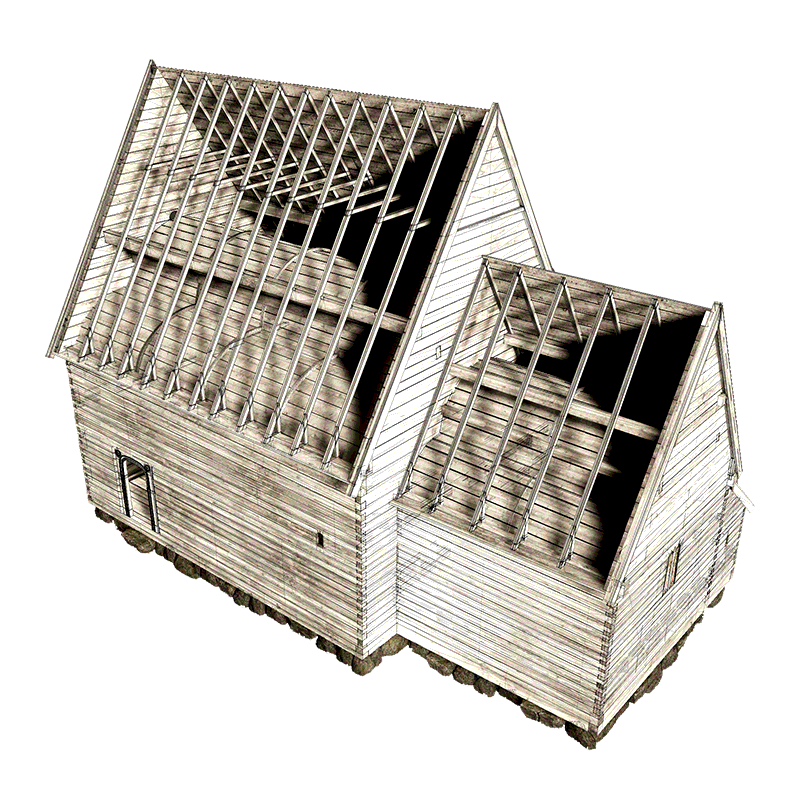
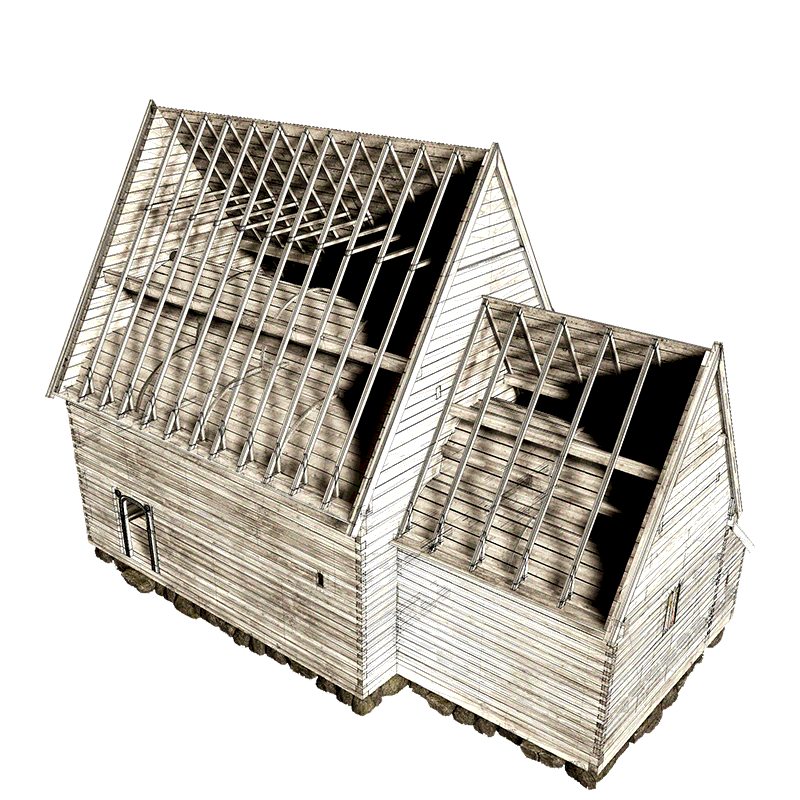
model and content

diff --git a/src/views/Home.vue b/src/views/Home.vue
@@ -10,22 +10,43 @@
 
     <div class="intro-container" style="">
       <div class="articletext" style="margin-top: 30px">
-        Södra Råda church was one of approximately twelve medieval log timber
-        churches still preserved in Scandinavia, and was recognised foremost for
-        its distinctive wall paintings, making it an important destination point
-        for tourism in the region. By the late nineteenth century the church had
-        already been deconsecrated and transformed from a place of worship into
-        a heritage museum. As such the building continued to serve the local
-        community for events like concerts, weddings, and baptisms.
-        <p>
-          Being an important node in the local community, the National Heritage
-          Board took a decision that the church should be reconstructed as a
-          pedagogical example to enhance craft practice and historical knowledge
-          of medieval churches. The full-scale reconstruction of the timber
-          building now erected on the site focuses on the potential benefits of
-          advancing research and developing skills in historical woodcraft
-          procedures.
-        </p>
+     
+   
+        Under tidig medeltid fanns i Södra Råda en liten stavkyrka med långhus och kor. De historiska omständigheterna kring kyrkan är oklara. 
+        Den dendrokronologiska analysen daterar timrets fällningsår till perioden 1302–1309. 
+        Kormålningarna är från 1323 enligt en inskription på den västra korväggen: ”I Herrens år 1323, då herr Petrus var biskop, är detta skrivet om den heliga jungfru Maria.” 
+        Textens budskap och de många målningarna ur Marias liv, som bedjerska vid Nådastolen och i Marie kröning, 
+        gör det sannolikt att kyrkan var tillägnad just Maria. 
+        
+        <p>Kyrkan var välbesökt av långväga gäster för att se de över 300 religiösa bildmotiven, 
+        men också använd av lokalsamhället för högtider och ceremoni.
+
+         Den gamla träkyrkans kulturvärden fick nationell och internationell uppmärksamhet genom den svenske folkloristen och konstnären Nils Månsson Mandelgren. 
+   En ny stenkyrka invigdes 1859, och den gamla timmerkyrkan köptes 1860 av Kungliga Vitterhetsakademien, avkonsekrerades och kom så att bli Sveriges första museikyrka. </p>
+
+   <p>I samband med Kungliga Vitterhetsakademiens skiljande från Riksantikvarieämbetet 1975 
+överläts större delen av fastighetsbeståndet inklusive Södra Råda gamla kyrka till staten, att förvaltas genom Riksantikvarieämbetet.  </p>
+
+     <p>2001 brann timmerkyrkan ned till grunden i ett pyromandåd. 
+       Kyrkans dåvarande ägare Riksantikvarieämbetet beslutade att den skulle rekonstrueras 
+       ”som ett pedagogiskt exempel för att ge nytt hantverkskunnande och kunskap om vår medeltida historia.” 
+       Syftet var att undersöka hur det kunde ha gått till att bygga en timmerkyrka på 1300-talet. 
+       
+       Bevarade träbyggnader från medeltiden och museisamlingar med byggnadsmaterial och historiska verktyg studerades i detalj. 
+       Andra källmaterial som har bidragit till tolkningen är medeltida illustrationer och texter om liturgi och byggenskap. 
+       Skogen och byggarbetsplatsen har fungerat som ett laboratorium för praktiska försök. 
+       Antaganden om arbetsmetoder, verktyg och konstruktioner har prövats i full skala. 
+
+       Allt material har fällts och bearbetats till timmer, sparrar och brädor i skogen med historiska metoder. 
+       Alla verktyg har rekonstruerats utifrån medeltida förlagor. 
+       </p>
+
+        <p>Läs mer om kyrkans historia i antologin ”Arkeologi i Södra Råda” 
+eller om byggprocessen och hantverket i artikeln ”Att bygga en kyrka i trä”.</p>
+
+  
+
+   
       </div>
     </div>
 
@@ -48,7 +69,7 @@
 
     <div class="timeline-container" style="margin-top: 50px">
       <div class="timeline-leftside">
-        <div class="timeline-date">1326</div>
+        <div class="timeline-date">1323</div>
       </div>
       <div class="timeline-main">
         <div class="timeline-circle" id="timeline-circle-1326" style="">
@@ -63,10 +84,14 @@
       </div>
       <div class="timeline-rightside">
         <div class="timeline-info" style="margin-top: 40px">
-          Lorem ipsum dolor sit amet, consectetur adipiscing elit. Pellentesque
-          vel consectetur odio, vel semper felis. Quisque pharetra laoreet magna
-          sed luctus. Etiam ultricies vehicula leo, at molestie eros
-          consectetur.
+          Kyrkorummet var ursprungligen sparsmakat inrett, enligt vår tids uppfattning. 
+          Det fanns en ingång från söder, en portal med dekor skuren direkt i timmerväggen. 
+          Ett par högt sittande fönster mot söder gav ljus i långhuset. 
+          Både långhus och kor hade rumstäckande treklövervalv men endast koret var bemålat. 
+          En liten öppning förband rummen, och församlingen som höll till i långhuset kunde endast ana allt vad som företogs i koret. 
+          Koret belystes av ett fönster över altaret möt öster, 
+          sannolikt med färgat glas med religiöst motiv, som förstärkte rummets mystik. 
+
         </div>
         <div class="timeline-infographics-container">
           <div class="timeline-infographics">
@@ -112,9 +137,38 @@
       </div>
       <div class="timeline-rightside">
         <div class="timeline-info-indented" style="">
-          Lorem ipsum dolor sit amet, consectetur adipiscing elit. Pellentesque
-          vel consectetur odio, vel semper felis. Quisque pharetra laoreet magna
-          sed luctus.
+         Under senmedeltiden bemålades även långhusets väggar och valv med religiösa motiv. 
+         Målningarna är signerade Mäster Amund med dateringen 1494. 
+         Hur konstruktionen och rummet i övrigt hade förändrats går inte att belägga med historiska källor. 
+         Ytterväggarna hade sannolikt klätts med långa stavspån, och möjligtvis hade ett vapenhus till sydportalen byggts till. 
+         Det fanns troligtvis en klockstapel i trä på kyrkogården som avgränsades av en timrad bogårdsmur. 
+        </div>
+      </div>
+      <div></div>
+    </div>
+
+      <div class="timeline-container">
+      <div class="timeline"></div>
+    </div>
+
+    <div class="timeline-container" style="margin-top: 0px">
+      <div class="timeline-leftside" style="">
+        <div class="timeline-date-indented" style="">1600</div>
+      </div>
+      <div class="timeline-main" style="height: 150px">
+        <div class="timeline-picture">
+          <img
+            src="@/assets/graphics/painting2.jpg"
+            class="timeline-infographics-image"
+          />
+        </div>
+      </div>
+      <div class="timeline-rightside">
+        <div class="timeline-info-indented" style="">
+ Det är osäkert när öppningen mellan långhus och kor förstoras, men de abrupt avkapade motiven i Mäster Amunds målningar antyder att det skedde efter 1494.
+         En predikstol sätts upp i långhusets nordöstra hörn 1689 med en smal passage från sakristian. 
+         Sydportalen sätts igen och huvudingången genom vapenhuset placeras i stället mot väster. 
+         En vinkällare grävs under sakristian. Klockstapeln ersätts med en ny eller genomgår en större renovering på 1660-talet.
         </div>
       </div>
       <div></div>
@@ -141,10 +195,11 @@
       </div>
       <div class="timeline-rightside">
         <div class="timeline-info" style="">
-          Lorem ipsum dolor sit amet, consectetur adipiscing elit. Pellentesque
-          vel consectetur odio, vel semper felis. Quisque pharetra laoreet magna
-          sed luctus. Etiam ultricies vehicula leo, at molestie eros
-          consectetur.
+          
+
+        På 1700-talet skedde flera förändringar. En ny altaruppsats tar plats 1707. 
+         En läktare uppförs 1723 i långhusets bakre del för att skapa mer plats åt en växande församling. 
+         Ytterligare fönster tas upp, och 1728 även en direktingång till koret som förses med ett eget litet vapenhus.    
         </div>
         <div class="timeline-infographics-container">
           <div class="timeline-infographics">
@@ -191,10 +246,9 @@
       </div>
       <div class="timeline-rightside">
         <div class="timeline-info-indented" style="">
-          Phasellus et sapien auctor mi bibendum sagittis. Fusce magna dolor,
-          fringilla nec orci at, suscipit luctus eros. Mauris fringilla, diam
-          sit amet faucibus vehicula, orci est efficitur justo, tristique tempor
-          ipsum ante congue orci.
+   <p>
+   </p>
+   Vid en renovering 1893 lades kyrkan på ny stenfot och vinkällaren i sakristian fylldes igen. Tak och fönster reparerades. De största ingreppen gjordes med motiv att återskapa ett medeltida utseende genom att korportalen sattes igen och det lilla vapenhuset revs liksom den bakre läktare. 
         </div>
       </div>
       <div></div>
@@ -206,7 +260,7 @@
 
     <div class="timeline-container" style="margin-top: 0px">
       <div class="timeline-leftside" style="">
-        <div class="timeline-date-indented" style="">1909</div>
+        <div class="timeline-date-indented" style="">1913</div>
       </div>
       <div class="timeline-main" style="height: 150px">
         <div class="timeline-picture">
@@ -219,8 +273,10 @@
       </div>
       <div class="timeline-rightside">
         <div class="timeline-info-indented" style="">
-          In tortor erat, facilisis sit amet metus non, lobortis tempor risus.
-          Cras pretium venenatis nisi, at eleifend lacus iaculis eget.
+          Omkring 1908 önskade Nordiska museet flytta kyrkan till Skansen i Stockholm. Folkopinionen i Södra Råda gjorde motstånd och tog hjälp av självaste kungen. 
+          Kyrkan skulle inte flyttas, utan bevaras på plats. Ägaren gick opinionen tillmötes och 1913 genomförde i stället en omfattande restaurering. Från 1922 tillåts församlingen att använda kyrkan för religiösa ändamål, 
+först för en midsommargudstjänst och senare även för dop och bröllop. 
+
         </div>
       </div>
       <div></div>
@@ -232,7 +288,7 @@
 
     <div class="timeline-container" style="">
       <div class="timeline-leftside" style="">
-        <div class="timeline-date-indented" style="">1995</div>
+        <div class="timeline-date-indented" style="">1981</div>
       </div>
       <div class="timeline-main" style="height: 150px">
         <div class="timeline-picture">
@@ -245,8 +301,8 @@
       </div>
       <div class="timeline-rightside">
         <div class="timeline-info-indented" style="">
-          Quisque pharetra laoreet magna sed luctus. Etiam ultricies vehicula
-          leo, at molestie eros consectetur.
+         Kormålningarna konserverades 1981-83 av konservator Hans-Peter Hedlund för Riksantikvarieämbetet.  
+         Målningarnas motiv och pigment dokumenteras ingående. 
         </div>
         <div
           class="timeline-infographics-container-indented"
@@ -284,10 +340,9 @@
       </div>
       <div class="timeline-rightside">
         <div class="timeline-info" style="">
-          Lorem ipsum dolor sit amet, consectetur adipiscing elit. Pellentesque
-          vel consectetur odio, vel semper felis. Quisque pharetra laoreet magna
-          sed luctus. Etiam ultricies vehicula leo, at molestie eros
-          consectetur.
+       Södra Råda gamla kyrka brann ner till grunden den 11 november 2001 i ett pyromandåd. 
+       Kyrkans dåvarande ägare Riksantikvarieämbetet beslutade att den skulle rekonstrueras ”som ett pedagogiskt exempel för att ge nytt hantverkskunnande och kunskap om vår medeltida historia.” 
+       En gärningsman dömdes senare till mordbrand, ”enär kyrkan var en ovärderlig kulturbyggnad och del av det svenska kulturarvet”. 
         </div>
       </div>
     </div>
@@ -299,7 +354,7 @@
     <div class="timeline-container" id="reconstruction" style="margin-top: 0px">
       <div class="timeline-leftside" style="">
         <div class="timeline-date-indented" style="margin-right: -100px">
-          2002-2021
+          2006-2021
         </div>
       </div>
       <div class="timeline-main" style="height: 200px">
@@ -313,8 +368,9 @@
       </div>
       <div class="timeline-rightside">
         <div class="timeline-info-indented" style="margin-top: -20px">
-          Quisque pharetra laoreet magna sed luctus. Etiam ultricies vehicula
-          leo, at molestie eros consectetur.
+       En rekonstruktion väcker många frågor och kräver detaljerade svar om skogsarbete, materialkvalitet, 
+       bearbetningsmetoder, verktyg, och om kyrkobyggnadens gestaltning, byggteknik och konstruktion. 
+       Efter branden gjordes utgrävningar och förundersökningar som pågick i fem år, innan byggnadsarbetet startade 2006.  
         </div>
         <div
           class="timeline-infographics-container-indented"

diff --git a/src/components/ThreeDViewer.vue b/src/components/ThreeDViewer.vue
@@ -7,7 +7,7 @@
     alt="3d-modell av Södra Råda"
     camera-controls
     disable-zoom
-    camera-orbit="-45deg 80deg 160.0m"
+    camera-orbit="40deg 65deg 27m"
     exposure="1.0"
     skyboxangle="120"
     shadows="false"
@@ -36,8 +36,8 @@ const baseUrl = import.meta.env.BASE_URL;
 .model-viewer {
   height: 100%;
   width: 100%;
-  --progress-bar-color: rgba(0, 0, 0, 0);
-  --progress-bar-height: 30px;
+  --progress-bar-color: rgba(0, 0, 0, 1);
+  --progress-bar-height: 10px;
   --progress-mask: fff;
   --poster-color: transparent;
   --progress-mask: transparent;
@@ -72,12 +72,15 @@ const baseUrl = import.meta.env.BASE_URL;
 }
 
 #button-load-label {
+   font-family: 'Teko', sans-serif;
   color: black;
   padding: 10px;
-  font-size: 26px;
+  font-size: 30px;
   text-align: center;
   font-weight: 300;
   margin-top: 12%;
+   line-height: 1.0;
+   padding: 20px 10px 50px 10px;
 }
 
 @keyframes pulse {

diff --git a/src/assets/archive.css b/src/assets/archive.css
@@ -76,7 +76,6 @@
     }
 
 
-
            .filtertag {
                font-family: monospace;
                float: left;
@@ -370,11 +369,11 @@
 
            #archive-model {
             position: absolute;
-            margin-top: 00px;
+            margin-top: -50px;
             margin-left: 30%;
             margin-right: auto;
-            width: 800px;
-            height: 800px;
+            width: 750px;
+            height: 850px;
             animation-name: PosterFade;
             animation-duration: 4s;
             animation-delay: 0s;

diff --git a/src/views/Archive.vue b/src/views/Archive.vue
@@ -52,7 +52,7 @@ const expanded = ref("");
 
 <template>
   <div id="top-container" style="margin-left: 100px; overflow: hidden">
-    <div id="archive-model">
+    <div id="archive-model" style="">
       <ThreeDViewer />
     </div>
     <div id="archive-title">S&ouml;dra R&aring;da Arkiv</div>

diff --git a/src/assets/intro.css b/src/assets/intro.css
@@ -391,7 +391,7 @@ Body {
 .timeline-info-indented{
     text-align:justify; 
     font-size:18px;
-    max-width:400px;
+    max-width:800px;
     margin-left:-100px; 
     margin-right:30%;
 
